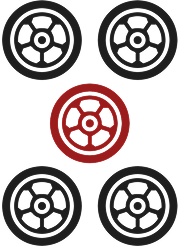
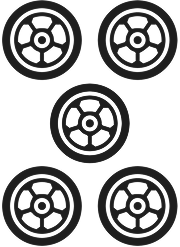
fix: hamburger-design

Changed region(s): [[0.2778, 0.3401, 0.7222, 0.6802]]

diff --git a/packages/shared-styles/foundation/_base.scss b/packages/shared-styles/foundation/_base.scss
@@ -21,9 +21,6 @@
   --color_code-block-bg: #2e3440;
   --color_code-block-text: #eceff4;
   --color_outline: #{g.$blue-700};
-  --color_hamburger-menu-bg: #{g.$grey-50};
-  --image_hamburger: url("/9pin.png");
-  --image_hamburger_active: url("/5pin.png");
 }
 
 :root[data-color-theme="light"] {
@@ -50,10 +47,15 @@
   --color_skeleton-wave: #{rgba(g.$grey-400, 0.5)};
   --color_blog-tag-bg: #{g.$grey-900};
   --color_blog-tag-bg-hover: #{g.$grey-50};
+  --color_hamburger-shadow: #{g.$grey-300};
+  --color_hamburger-border: #{g.$grey-900};
+  --color_hamburger-menu-bg: #{g.$grey-50};
 
   --image_logo: url("/myface_light.svg");
   --image_theme-switch: url("/theme-switch_light.svg");
   --image_introduction: url("/big-myface_light.png");
+  --image_hamburger: url("/9pin.png");
+  --image_hamburger_active: url("/5pin.png");
 
   --shadow_global-nav: 0 2px 4px 0 #{g.$grey-200};
   --shadow_global-nav-reverse: 0 2px 4px 0 #{g.$grey-800};
@@ -85,10 +87,15 @@
   --color_skeleton-wave: #{rgba(g.$grey-300, 0.5)};
   --color_blog-tag-bg: #{g.$grey-50};
   --color_blog-tag-bg-hover: #{g.$grey-900};
+  --color_hamburger-shadow: #{g.$grey-300};
+  --color_hamburger-border: #{g.$grey-50};
+  --color_hamburger-menu-bg: #{g.$grey-900};
 
   --image_logo: url("/myface_dark.svg");
   --image_theme-switch: url("/theme-switch_dark.svg");
   --image_introduction: url("/big-myface_dark.png");
+  --image_hamburger: url("/9pin_dark.png");
+  --image_hamburger_active: url("/5pin_dark.png");
 
   --shadow_global-nav: 0 2px 4px 0 #{g.$grey-800};
   --shadow_global-nav-reverse: 0 2px 4px 0 #{g.$grey-200};

diff --git a/app/src/components/shared/HamburgerMenu/HamburgerMenu.module.scss b/app/src/components/shared/HamburgerMenu/HamburgerMenu.module.scss
@@ -1,8 +1,8 @@
 .mahjongButton {
   background: var(--color_hamburger-menu-bg);
   border-radius: 0.3rem;
-  box-shadow: 2px 2px 2px 0 var(--color_heading-border);
-  border: 1px solid var(--color_heading-border);
+  box-shadow: 2px 2px 0px 0 var(--color_hamburger-shadow);
+  border: 2px solid var(--color_hamburger-border);
   aspect-ratio: 3 / 4;
   display: flex;
   align-items: center;
@@ -11,7 +11,7 @@
   transition:
     transform 0.2s ease-out,
     box-shadow 0.2s ease-out;
-  transform: translate(-1px, -2px);
+  transform: translate(-2px, -2px);
   position: relative;
   z-index: 101; /* メニューより上に表示 */
   padding-block: 0;

diff --git a/app/src/components/shared/Preload/Preload.tsx b/app/src/components/shared/Preload/Preload.tsx
@@ -3,6 +3,8 @@ export function Preload() {
 		<>
 			<link rel="preload" href="/9pin.png" as="image" type="image/png" />
 			<link rel="preload" href="/5pin.png" as="image" type="image/png" />
+			<link rel="preload" href="/9pin_dark.png" as="image" type="image/png" />
+			<link rel="preload" href="/5pin_dark.png" as="image" type="image/png" />
 			<link
 				rel="preload"
 				href="/theme-switch_light.svg"

diff --git a/app/src/features/zenn/components/ZennCard/ZennCard.module.scss b/app/src/features/zenn/components/ZennCard/ZennCard.module.scss
@@ -19,7 +19,6 @@
       box-shadow: 0 0 8px 0px var(--color_f-text-default);
     }
     &:has(.link:hover) .metadata {
-      border-top-color: var(--color_article-border-hover);
       color: var(--color_f-text-reverse-default);
     }
   }
